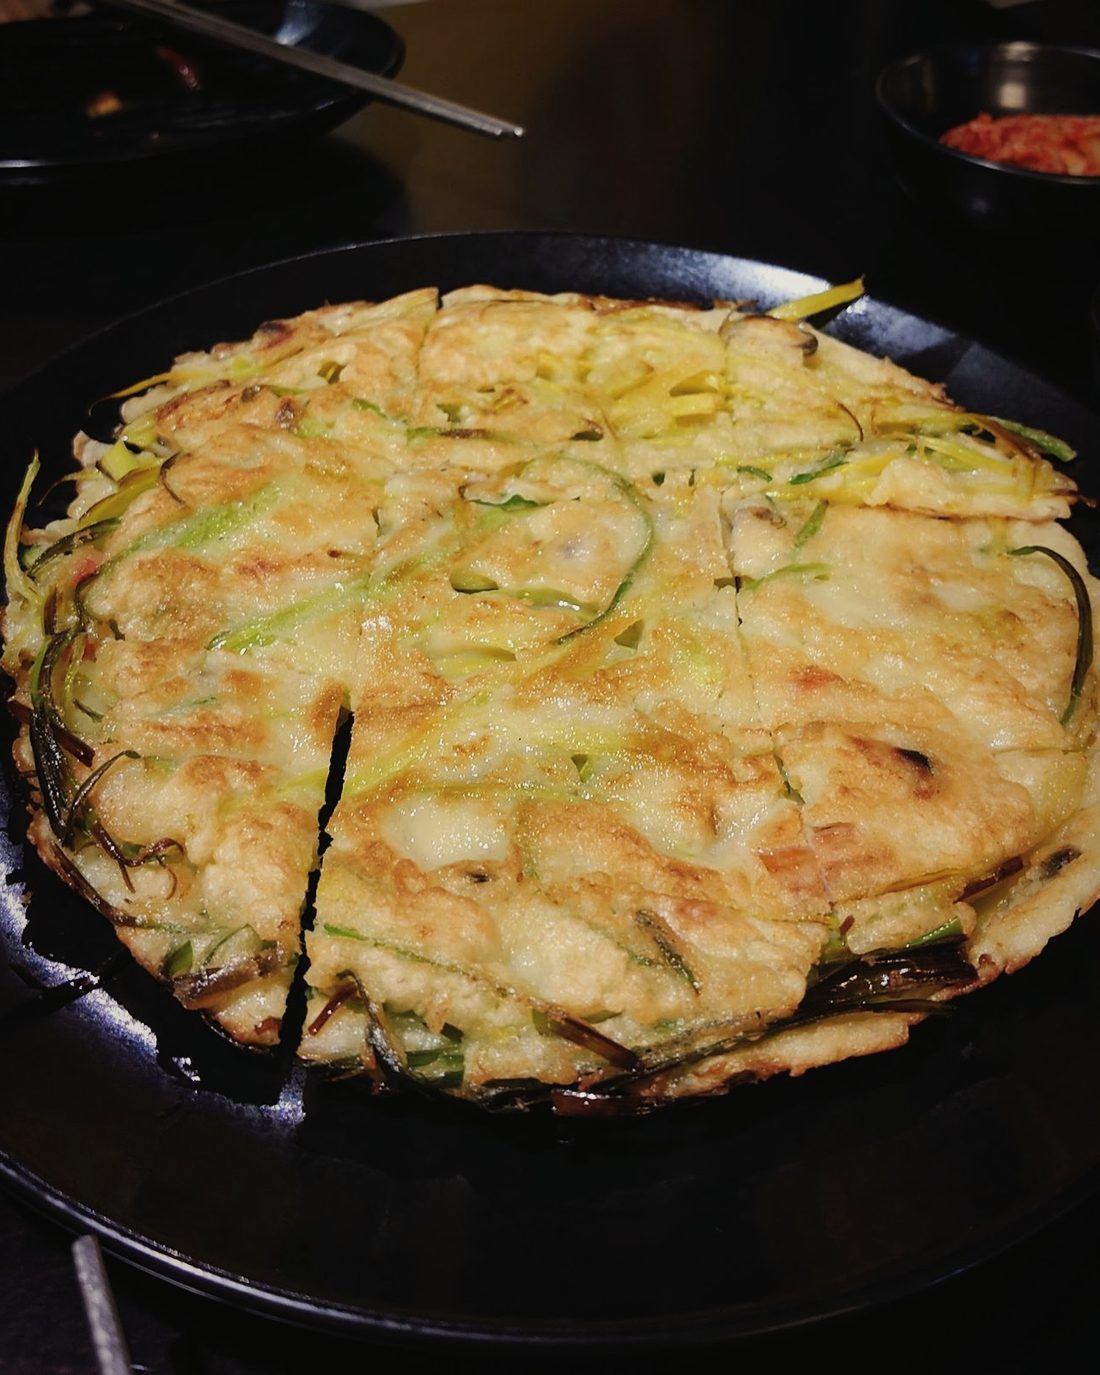
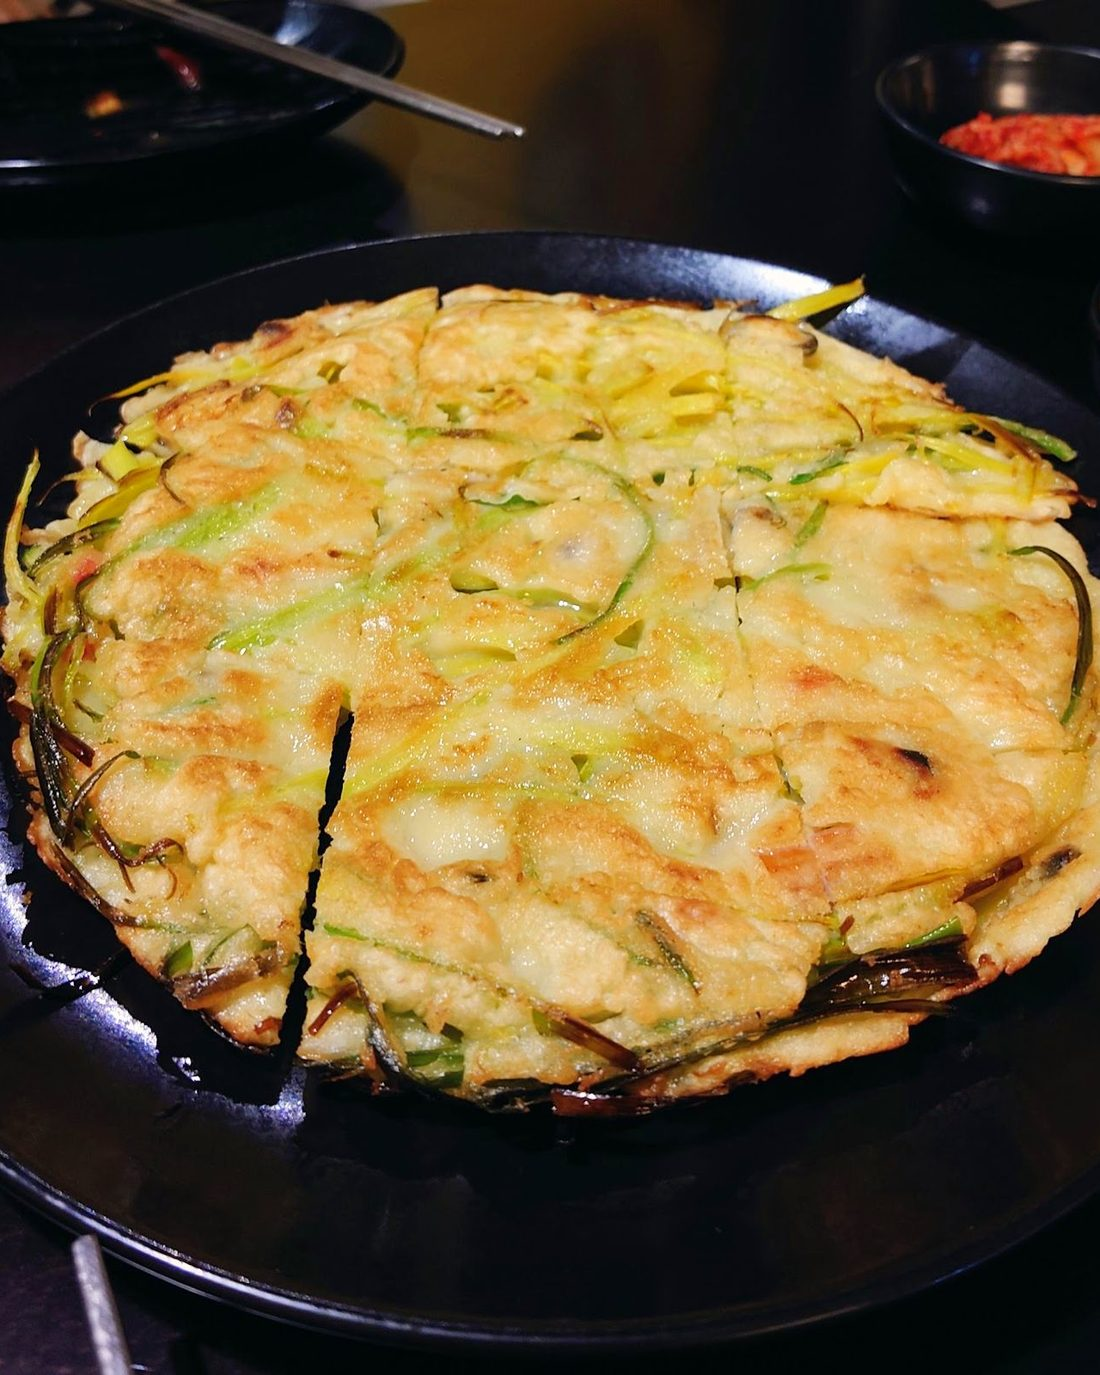
Damso v6: whole site in the KYŌ system — beige + midnight bands, Damso red as the one pop, bold sans headlines, mono details, card menu and booking, vivid re-grade of every photo
Claude-Session: https://claude.ai/code/session_01NDAfGDXYjDejBkjwsjkdqo

diff --git a/damso/style.css b/damso/style.css
@@ -383,3 +383,143 @@ h2 em { color: var(--brass); }
 
 .hero-img img { object-position: 62% 50%; }
 @media (max-width: 899px) { .hero-img img { object-position: 74% 50%; } }
+
+/* ======================================================================
+   v6 · one system, top to bottom (KYŌ standard)
+   beige + midnight, Damso red as the only pop · bold sans + mono details
+   ====================================================================== */
+@font-face { font-family: "Inter Tight"; font-weight: 600; src: url(fonts/inter-tight-latin-600-normal.woff2) format("woff2"); font-display: swap; }
+@font-face { font-family: "Inter Tight"; font-weight: 700; src: url(fonts/inter-tight-latin-700-normal.woff2) format("woff2"); font-display: swap; }
+:root { --pop: #e2412e; --brass: var(--pop); --bold: "Inter Tight", "Manrope", system-ui, sans-serif; --mono: "JetBrains Mono", ui-monospace, monospace; --paper: #ece6dc; --card: #f7f4ef; }
+body { background: var(--paper); }
+
+/* light sections: flip the tokens so every component reads dark-on-beige */
+.intro, .cat, .reserve, .voices, .visit {
+  --bone: #121110; --bone2: #3a332c; --ink: #ece6dc; --ink2: #e4ddd1; --ink3: #ddd5c8;
+  --mute: rgba(18, 17, 16, .64); --faint: rgba(18, 17, 16, .4); --line: rgba(18, 17, 16, .13);
+  background: var(--paper); color: #121110;
+}
+.reserve { background: #e4ddd1; border-top: 0; }
+.voices { background: var(--paper); }
+.visit { border-top: 0; }
+.story, .foot { background: #121110; }
+
+/* type */
+h2, .vs-info h2 { font-family: var(--bold); font-weight: 800; letter-spacing: -.045em; line-height: .92; font-size: clamp(42px, 5.4vw, 92px); }
+h2 em, .sy-end em { font-family: var(--serif); font-style: italic; font-weight: 400; letter-spacing: -.01em; color: var(--pop); font-size: 1.1em; line-height: .8; }
+.menu h2 em { color: var(--pop); }
+.lbl { font: 400 11.5px/1.2 var(--mono); letter-spacing: .14em; color: currentColor; opacity: .9; }
+.lbl i { height: 2px; width: 26px; background: var(--pop); opacity: 1; }
+.lbl .kr { color: var(--pop); }
+.lbl.dk { color: #121110; }
+.lbl.dk .kr { color: var(--pop); }
+
+/* nav: a calm dark bar, KYŌ-like links */
+.nav.solid { background: rgba(18, 17, 16, .96); }
+.nav-links { gap: 6px; font: 500 15px/1 var(--bold); letter-spacing: 0; text-transform: none; }
+.nav-links a { padding: 10px 14px; border-radius: 99px; transition: background .3s; opacity: .9; }
+.nav-links a::after { display: none; }
+.nav-links a:hover { background: rgba(255, 255, 255, .1); opacity: 1; }
+.pill { font: 700 14px/1 var(--bold); letter-spacing: 0; text-transform: none; padding: 13px 20px; background: #ece6dc; color: #121110; border: 0; }
+.pill:hover { background: var(--pop); color: #fff; }
+#lang { font-family: var(--mono); }
+
+/* intro statement */
+.intro-t { font: 700 clamp(30px, 3.4vw, 56px)/1.1 var(--bold); letter-spacing: -.035em; max-width: 24ch; }
+
+/* the table (catalogue) on beige */
+.cat-count { font: 400 14px/1 var(--mono); }
+.cat-count b { font: 800 34px/1 var(--bold); letter-spacing: -.04em; }
+.ct-kind { font: 400 11.5px/1 var(--mono); letter-spacing: .14em; color: var(--pop); }
+.ct-kind .kr { color: var(--mute); }
+.ct h3 { font: 800 clamp(48px, 5.8vw, 108px)/.9 var(--bold); letter-spacing: -.05em; }
+.ct p { font-size: 17px; color: var(--mute); }
+.ct .pr { font: 400 18px/1 var(--mono); }
+.cat-frame .cf { border-radius: 16px; }
+.cf-kr { color: var(--pop); }
+.cat-index li button { font: 400 11px/1 var(--mono); letter-spacing: .1em; }
+.cat-index li button small { font: 400 11px/1 var(--mono); }
+.arw { box-shadow: none; border: 1px solid var(--line); }
+
+/* menu: KYŌ-style cards on beige */
+.menu { background: #e4ddd1; }
+.mn-list { border-top: 0; gap: 14px; column-gap: 14px; }
+.mn-list li { background: var(--card); border: 0; border-radius: 14px; padding: 22px 24px 22px; transition: transform .5s var(--ease), box-shadow .5s var(--ease); }
+.mn-list li:hover { transform: translateY(-3px); box-shadow: 0 18px 34px -22px rgba(18, 17, 16, .4); }
+.mn-list b { font: 700 21px/1.15 var(--bold); letter-spacing: -.02em; }
+.mn-list b small { font-family: var(--mono); border-color: var(--pop); color: var(--pop); }
+.mn-list .pr { font: 400 14px/1.6 var(--mono); }
+.mn-list .pr small { font-family: var(--mono); }
+.mn-list .kr { color: var(--pop); }
+.mn-note { font-family: var(--mono); font-size: 12px; }
+.mn-sub { font-size: 16px; }
+
+/* story band (midnight) */
+.story { --pop: #ff5a44; }
+.sy-f .ph { border-radius: 16px; }
+.sy-f figcaption b { font: 700 20px/1.15 var(--bold); letter-spacing: -.02em; }
+.sy-f figcaption q { font: 600 19px/1.3 var(--bold); font-style: normal; letter-spacing: -.01em; }
+.sy-f figcaption span { font-family: var(--mono); font-size: 12px; }
+.yr { font-family: var(--bold); font-weight: 800; letter-spacing: -.06em; -webkit-text-stroke: 1.5px rgba(236, 230, 220, .55); }
+.sy-end { font: 800 clamp(40px, 4.4vw, 78px)/.92 var(--bold); letter-spacing: -.045em; }
+.sy-prog i { background: var(--pop); }
+
+/* reserve */
+.room { border-radius: 16px; }
+.spot-card { background: rgba(247, 244, 239, .96); color: #121110; border: 0; border-radius: 12px; box-shadow: 0 14px 30px -14px rgba(0, 0, 0, .45); }
+.spot-card small { font-family: var(--mono); color: var(--pop); }
+.spot-card b { font: 700 22px/1.1 var(--bold); letter-spacing: -.02em; }
+.spot.on i { background: var(--pop); }
+.spot.on::before { border-color: var(--pop); }
+.book { background: var(--card); border: 0; border-radius: 16px; padding: 8px 26px 26px; box-shadow: 0 22px 44px -30px rgba(18, 17, 16, .35); }
+.bk-row:last-of-type { border-bottom: 1px solid var(--line); }
+.bk-k { font: 400 11px/1 var(--mono); letter-spacing: .14em; }
+.nums button { font: 600 17px/1 var(--bold); }
+.dates button { border-radius: 10px; }
+.dates button small { font-family: var(--mono); }
+.dates button b { font: 700 22px/1 var(--bold); letter-spacing: -.02em; }
+.dates button.on { background: #121110; border-color: #121110; }
+.dates button.on small, .dates button.on b { color: #ece6dc; }
+.times button { font: 400 15px/1 var(--mono); }
+.times button.on { color: var(--pop); }
+.times button::after { background: var(--pop); }
+.areas button { font: 500 13px/1 var(--bold); }
+.areas button.on { border-color: var(--pop); background: var(--pop); color: #fff; }
+.bk-sum p { font: 700 clamp(19px, 1.6vw, 24px)/1.3 var(--bold); font-style: normal; letter-spacing: -.02em; }
+.bk-sum p span { color: var(--pop); }
+.cta { border-radius: 99px; font: 700 15px/1 var(--bold); letter-spacing: 0; text-transform: none; padding: 20px 26px; }
+.cta:hover { background: var(--pop); color: #fff; }
+.bk-small a { border-color: var(--pop); }
+
+/* voices */
+.vq q { font: 700 clamp(30px, 3.6vw, 58px)/1.08 var(--bold); letter-spacing: -.035em; }
+.vq cite, .vc-meta { font-family: var(--mono); }
+.vc-meta i { background: var(--pop); height: 2px; }
+
+/* visit */
+.status { font: 400 14px/1.3 var(--mono); }
+.hours li { font-family: var(--mono); font-size: 13px; }
+.vs-links { border: 0; gap: 10px; }
+.vs-links a { border: 0; border-radius: 99px; padding: 18px 24px; background: var(--card); font: 700 17px/1 var(--bold); letter-spacing: -.01em; transition: background .3s, color .3s; }
+.vs-links a:first-child { background: #121110; color: #ece6dc; }
+.vs-links a:hover { background: var(--pop); color: #fff; }
+.vs-map .tiles { border-radius: 16px; }
+.map-tag { border-radius: 10px; background: #121110; }
+.map-tag b { font: 800 20px/1 var(--bold); letter-spacing: -.02em; color: #ece6dc; }
+.map-tag span { font-family: var(--mono); color: rgba(236, 230, 220, .7); }
+.map-tag u { color: #ff5a44; border-color: #ff5a44; }
+.vs-door { border-radius: 14px; border-color: var(--paper); }
+
+/* footer */
+.ft-bar, .concept { font-family: var(--mono); }
+.ft-kr { color: rgba(236, 230, 220, .07); }
+
+@media (max-width: 899px) {
+  .ct h3 { font-size: clamp(40px, 11vw, 60px); }
+  .mn-list { grid-template-columns: 1fr; }
+  .book { padding: 4px 18px 20px; }
+  .intro-t { font-size: clamp(28px, 7.6vw, 40px); }
+}
+.bk-row { grid-template-columns: 1fr; gap: 12px; padding: 18px 0; }
+.nums { gap: 2px; }
+@media (max-width: 899px) { .nums button { width: 34px; height: 34px; font-size: 15px; } }

diff --git a/damso/index.html b/damso/index.html
@@ -11,7 +11,7 @@
 <link rel="preload" href="fonts/instrument-serif-latin-400-normal.woff2" as="font" type="font/woff2" crossorigin>
 <link rel="preload" href="fonts/instrument-serif-latin-400-italic.woff2" as="font" type="font/woff2" crossorigin>
 <link rel="preload" as="image" type="image/webp" imagesrcset="img/g/hero-s.webp 1100w, img/g/hero.webp 2200w" imagesizes="100vw">
-<link rel="stylesheet" href="style.css?v=24">
+<link rel="stylesheet" href="style.css?v=26">
 </head>
 <body>
 
@@ -172,6 +172,6 @@
 <script src="vendor/gsap.min.js"></script>
 <script src="vendor/ScrollTrigger.min.js"></script>
 <script src="vendor/lenis.min.js"></script>
-<script src="app.js?v=24"></script>
+<script src="app.js?v=26"></script>
 </body>
 </html>
